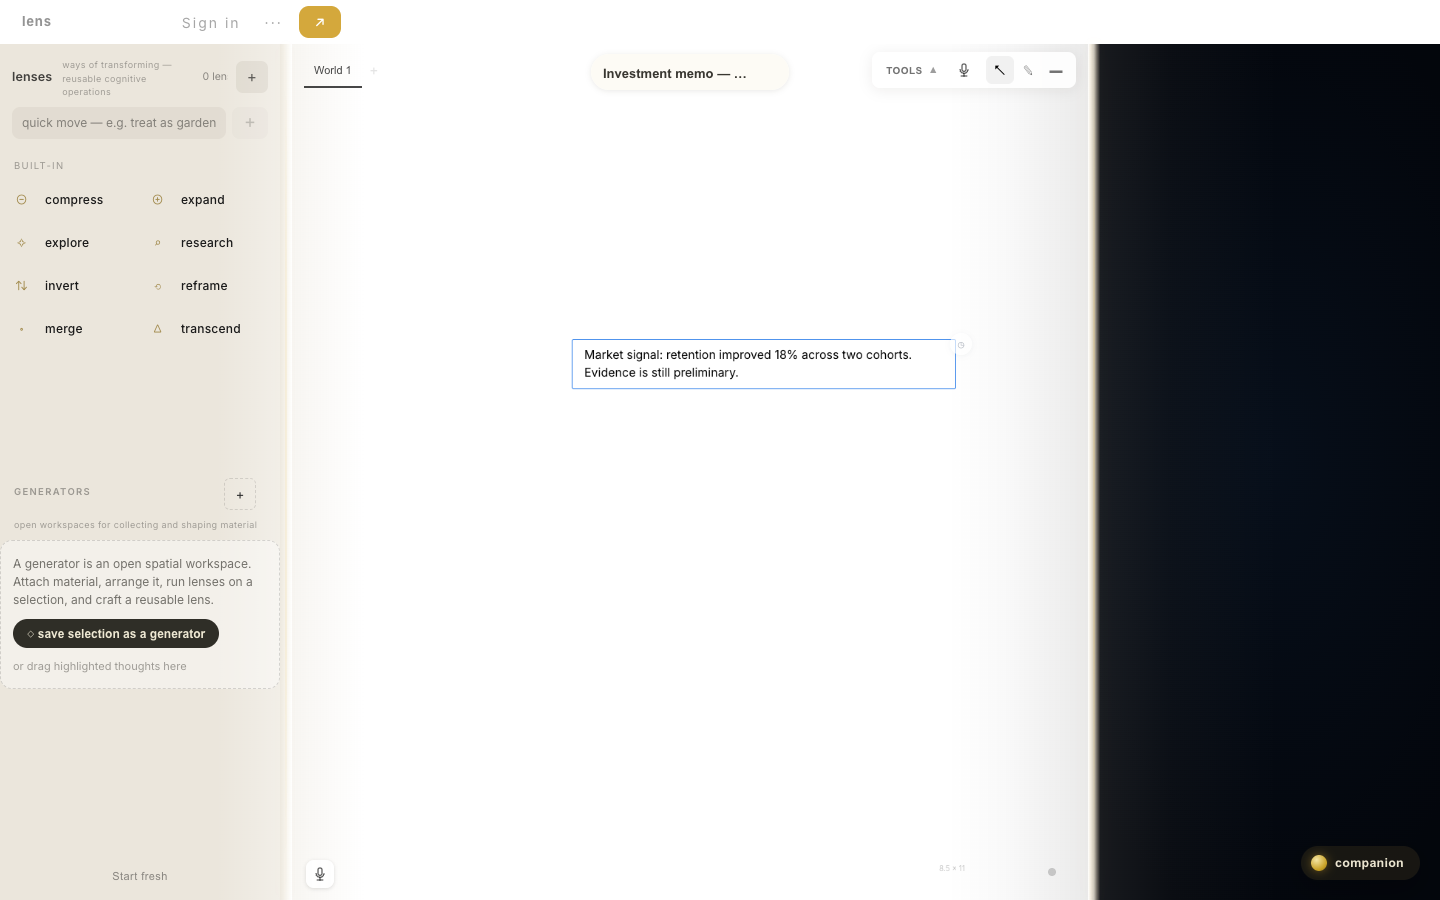
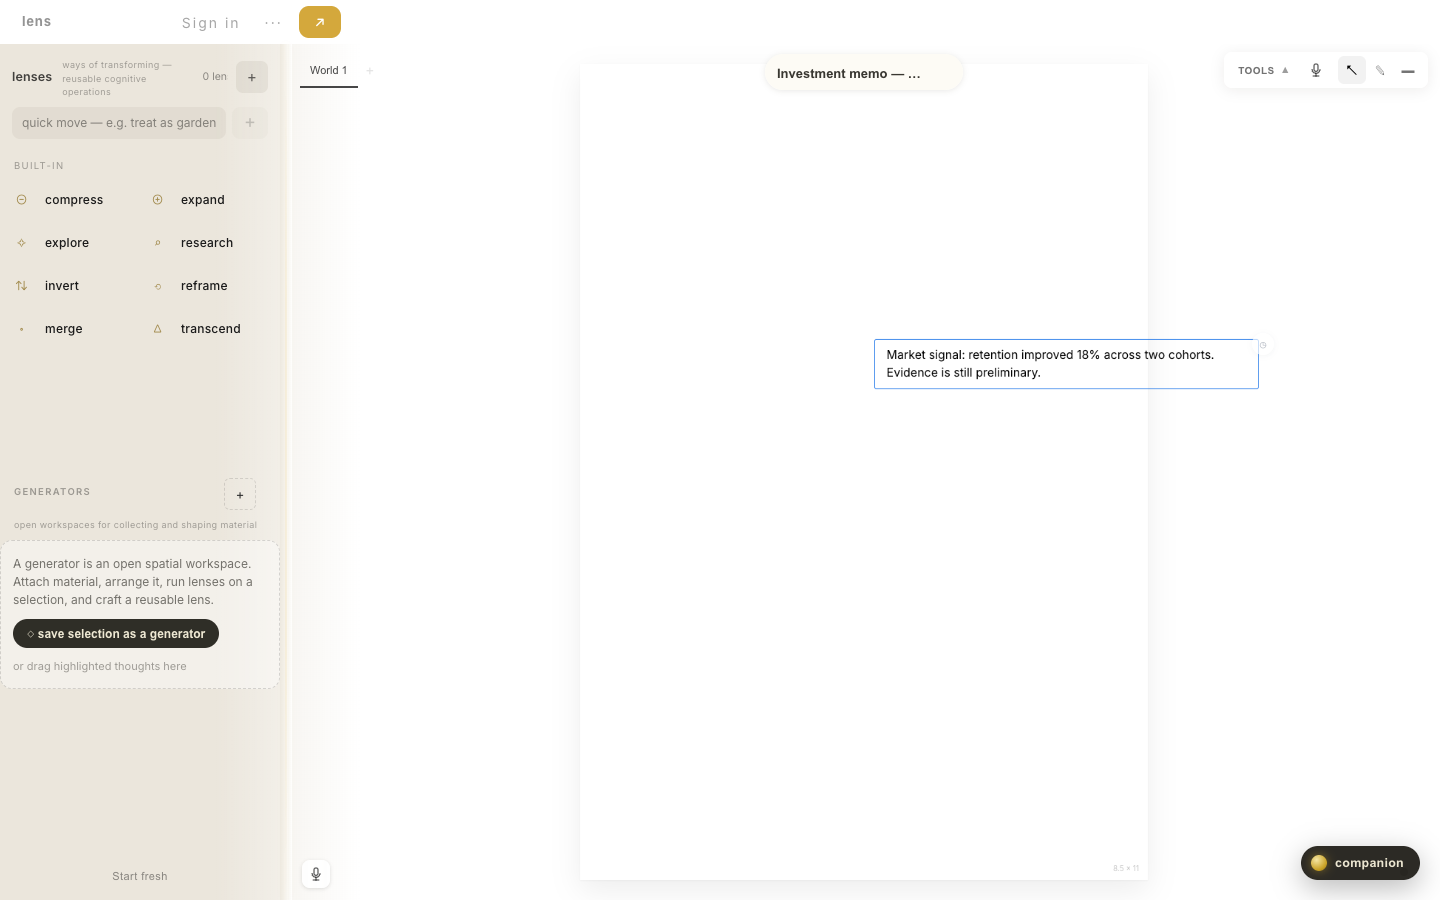
Fix unified workspace paper dragging
Keep direct paper gestures in the shared world instead of routing them into the embedded AI overlay, and replace legacy column smoke checks with current camera, frame, responsive-control, and multi-zoom drag persistence coverage.

diff --git a/client/App.jsx b/client/App.jsx
@@ -2707,7 +2707,11 @@ export default function App() {
   }
 
   function isOverAiColumn(clientX, clientY) {
-    const el = aiViewportRef.current?.closest?.(".ai-column") || aiViewportRef.current;
+    // In the unified workspace the embedded AI viewport fills the same canvas
+    // as paper. Treating that overlay as a separate destination makes every
+    // ordinary paper drag hand off to AI instead of moving the item.
+    const el = aiViewportRef.current?.closest?.(".ai-column");
+    if (!el) return false;
     const r = el?.getBoundingClientRect();
     return !!(r && clientX >= r.left && clientX <= r.right && clientY >= r.top && clientY <= r.bottom);
   }

diff --git a/client/styles-idea.css b/client/styles-idea.css
@@ -20,18 +20,18 @@
     #faf9f6;
 }
 
-.unified-workspace-grid .paper-sheet,
-.unified-workspace-grid .paper-content {
+.three-column-grid.unified-workspace-grid .paper-sheet,
+.three-column-grid.unified-workspace-grid .paper-content {
   overflow: visible;
 }
 
-.unified-workspace-grid .paper-sheet {
+.three-column-grid.unified-workspace-grid .paper-sheet {
   background: #fff;
   border-color: rgba(0, 0, 0, 0.075);
   box-shadow: 0 1px 2px rgba(0, 0, 0, 0.035), 0 14px 40px rgba(0, 0, 0, 0.07);
 }
 
-.unified-workspace-grid .paper-content {
+.three-column-grid.unified-workspace-grid .paper-content {
   background-color: #fff;
   background-image: none;
 }

diff --git a/audit-shots/human-audit/REPORT.md b/audit-shots/human-audit/REPORT.md
@@ -1,18 +1,18 @@
 # Human product audit
 
-Completed: 2026-07-10T17:46:34.341Z
-Target: http://localhost:5233
+Completed: 2026-07-12T21:07:33.721Z
+Target: http://localhost:5253
 
 ## Honest verdict
 
-Usable for the audited local journeys: 47/47 assertions passed. Cloud account adoption, live model quality, microphone/video capture, and true slow-network behavior remain environment-dependent constraints.
+Usable for the audited local journeys: 60/60 assertions passed. Cloud account adoption, live model quality, microphone/video capture, and true slow-network behavior remain environment-dependent constraints.
 
 This was driven with visible pointer, keyboard, wheel, and drag actions. Storage seeding was used only for the explicitly labeled high-density and malformed-record probes.
 
 ## Coverage matrix
 
 - [x] **First 10 minutes** — Fresh companion, interview interruption, memory, destructive typo command _(core)_; 9/9 checks passed
-- [x] **Paper** — Create/edit/move text, pen, highlighter, title, page, zoom, undo/redo _(core)_; 6/6 checks passed
+- [x] **Paper** — Create/edit/move text, pen, highlighter, title, page, zoom, undo/redo _(core)_; 18/18 checks passed
 - [x] **AI space** — Viewport, pan/zoom, dense constellation, node drag/jiggle, focus affordances _(core + seeded density)_; 3/3 checks passed
 - [x] **Lenses** — Built-ins, quick move, create/editor entry, duplicate-free palette _(core)_; 1/1 checks passed
 - [x] **Generators** — Create empty generator, open/close workspace, persistence _(core)_; 1/1 checks passed
@@ -24,7 +24,7 @@ This was driven with visible pointer, keyboard, wheel, and drag actions. Storage
 ## Results
 
 ### First 10 minutes
-- PASS — fresh app becomes interactive under 1s (459ms)
+- PASS — fresh app becomes interactive under 1s (435ms)
 - PASS — companion opens automatically
 - PASS — legacy tour overlay is absent
 - PASS — identity prompt is understandable
@@ -37,7 +37,7 @@ This was driven with visible pointer, keyboard, wheel, and drag actions. Storage
 ### Paper
 - PASS — select-click creates editable text
 - PASS — second click enters text editing
-- PASS — text can be moved without precision dragging (64.3px)
+- PASS — text drag lands at the visible cursor (moved=109.8px, landing error=0.0px)
 - PASS — pen stroke persists after release
 - PASS — toolbar undo and redo are reachable
 - PASS — new page is created visibly
@@ -55,6 +55,7 @@ This was driven with visible pointer, keyboard, wheel, and drag actions. Storage
 - PASS — paper title survives reload
 - PASS — created lens survives reload
 - PASS — generator survives reload
+- PASS — text drag survives reload (0.0px drift)
 - PASS — cancel preserves paper work
 - PASS — confirmed clear removes paper
 - PASS — confirmed clear removes generators
@@ -62,15 +63,15 @@ This was driven with visible pointer, keyboard, wheel, and drag actions. Storage
 - PASS — clear remains clear after reload
 
 ### Layout
-- PASS — 1600×1000 keeps three domains ordered
+- PASS — 1600×1000 shares one camera across paper and AI (tracks=3, legacy AI columns=0)
 - PASS — 1600×1000 has no document overflow (0px × 0px)
-- PASS — 1600×1000 has no clipped controls
-- PASS — 1440×900 keeps three domains ordered
+- PASS — 1600×1000 keeps active controls visible in white/graphite workspace (clipped=0; canvas=rgb(250, 249, 246); paper=rgb(255, 255, 255); )
+- PASS — 1440×900 shares one camera across paper and AI (tracks=3, legacy AI columns=0)
 - PASS — 1440×900 has no document overflow (0px × 0px)
-- PASS — 1440×900 has no clipped controls
-- PASS — 1100×760 keeps three domains ordered
+- PASS — 1440×900 keeps active controls visible in white/graphite workspace (clipped=0; canvas=rgb(250, 249, 246); paper=rgb(255, 255, 255); )
+- PASS — 1100×760 shares one camera across paper and AI (tracks=3, legacy AI columns=0)
 - PASS — 1100×760 has no document overflow (0px × 0px)
-- PASS — 1100×760 has no clipped controls
+- PASS — 1100×760 keeps active controls visible in white/graphite workspace (clipped=0; canvas=rgb(250, 249, 246); paper=rgb(255, 255, 255); )
 
 ### Accessibility
 - PASS — 1600×1000 core controls have labels (0 unlabeled)
@@ -79,7 +80,21 @@ This was driven with visible pointer, keyboard, wheel, and drag actions. Storage
 - PASS — 1440×900 has no sub-24px targets (0 targets)
 - PASS — 1100×760 core controls have labels (0 unlabeled)
 - PASS — 1100×760 has no sub-24px targets (0 targets)
-- PASS — Tab reaches a visible control (BUTTON: capture how I got here — save this whole thread as)
+- PASS — Tab reaches a visible control (BUTTON: World 1 — double-click to rename)
+
+### Paper drag
+- PASS — text drag lands at cursor at 0.55× (Δ=58.0,36.0px; error=0.0px; grab=701.8,281.4)
+- PASS — block drag lands at cursor at 0.55× (Δ=58.0,36.0px; error=0.0px; grab=884.1,309.5)
+- PASS — ink drag lands at cursor at 0.55× (Δ=58.0,36.0px; error=0.0px; grab=770.0,425.0)
+- PASS — zoomed-out frame and all drag positions survive reload (item drift=drag-text:0.0,drag-block:0.0,drag-ink:0.0; frame=638,194; stored=drag-text:210.4545454545453,190.45454545454552|drag-block:495.45454545454567,235.45454545454552|drag-ink:275.45454545454544,455.45454545454544; reloaded=drag-text:210.4545454545453,190.45454545454552|drag-block:495.45454545454567,235.45454545454552|drag-ink:275.45454545454544,455.45454545454544; boxes=drag-text:753.7,298.7>753.7,298.7|drag-block:910.5,323.5>910.5,323.5|drag-ink:787.3,442.3>787.3,442.3)
+- PASS — text drag lands at cursor at 1× (Δ=58.0,36.0px; error=0.0px; grab=519.0,248.0)
+- PASS — block drag lands at cursor at 1× (Δ=58.0,36.0px; error=0.0px; grab=855.5,299.0)
+- PASS — ink drag lands at cursor at 1× (Δ=58.0,36.0px; error=0.0px; grab=648.0,509.0)
+- PASS — actual-size frame and all drag positions survive reload (item drift=drag-text:0.0,drag-block:0.0,drag-ink:0.0; frame=408,89; stored=drag-text:163,161|drag-block:448,206|drag-ink:228,426; reloaded=drag-text:163,161|drag-block:448,206|drag-ink:228,426; boxes=drag-text:571.0,250.0>571.0,250.0|drag-block:856.0,295.0>856.0,295.0|drag-ink:632.0,511.0>632.0,511.0)
+- PASS — text drag lands at cursor at 1.6× (Δ=58.0,36.0px; error=0.0px; grab=432.0,193.4)
+- PASS — block drag lands at cursor at 1.6× (Δ=58.0,36.0px; error=0.0px; grab=974.0,275.0)
+- PASS — ink drag lands at cursor at 1.6× (Δ=58.0,36.0px; error=0.0px; grab=642.0,611.0)
+- PASS — narrow-zoomed-in frame and all drag positions survive reload (item drift=drag-text:0.0,drag-block:0.0,drag-ink:0.0; frame=258,-61; stored=drag-text:141.25,147.5|drag-block:426.25,192.5|drag-ink:206.25,412.5; reloaded=drag-text:141.25,147.5|drag-block:426.25,192.5|drag-ink:206.25,412.5; boxes=drag-text:484.0,175.0>484.0,175.0|drag-block:940.0,247.0>940.0,247.0|drag-ink:581.6,592.6>581.6,592.6)
 
 ### Adversarial
 - PASS — malformed generator store does not crash app
@@ -87,7 +102,7 @@ This was driven with visible pointer, keyboard, wheel, and drag actions. Storage
 ### AI space
 - PASS — 55-node constellation loads (55 nodes)
 - PASS — pan/zoom density interaction keeps app responsive
-- PASS — tiny background jiggle creates no node (56 → 56)
+- PASS — tiny background jiggle creates no node (55 → 55)
 
 ### Shared paths
 - PASS — malformed share payload recovers to workspace
@@ -131,31 +146,24 @@ This was driven with visible pointer, keyboard, wheel, and drag actions. Storage
 
 ## Measurements
 
-- Fresh interactive time: 459ms
-- Assertions: 47 passed / 0 failed / 47 total
-- Browser errors and rejected console messages: 3
+- Fresh interactive time: 435ms
+- Assertions: 60 passed / 0 failed / 60 total
+- Browser errors and rejected console messages: 4
 
-## Verification summary
+## Legacy regression reconciliation
 
-- Human-paced black-box suite: 47/47
-- Existing final adversarial audit: 32/32
-- Targeted four-fix regression: 33/33
-- AI-space density/gesture audit: 20/20
-- Companion walkthrough: 31/31
-- Shared-path journey: 24/24
-- Branched-lens journey: 36/36
-- Lenses/generators journey: 32/32
-- Companion destructive-clear journey: 21/21
-- Node unit/integration tests: 311/311
-- Production build: passed (160 modules)
+- Before: 40/47. Three checks expected separate paper and AI columns after those columns had intentionally become one shared world.
+- Before: three clipping checks counted the opacity-hidden zoom disclosure as visible controls instead of opening it and measuring the active panel.
+- Before: every paper drag inside the shared canvas was misclassified as a drop into the old AI column because the embedded AI overlay fills that canvas.
+- After: equivalent coverage validates the rail, one shared paper/AI camera, embedded paper frame, AI overlay, white/graphite styling, responsive active controls, and text/block/ink drag landing plus reload persistence at 0.55×, 1×, and 1.6×.
+- Classification: three stale pre-unification column assertions; three incorrect hidden-control harness assertions; one genuine unified-workspace drag-routing defect, fixed in the app.
 
 ## Browser errors
 
 - fresh: console: Failed to load resource: the server responded with a status of 500 (Internal Server Error)
 - fresh: console: Failed to load resource: the server responded with a status of 500 (Internal Server Error)
-- secondary-density: console: Failed to load resource: the server responded with a status of 500 (Internal Server Error)
-
-The three 500 responses are expected model-request failures in the no-API-key local environment. They produced visible, recoverable `fetch failed` feedback; there were no page errors, unhandled rejections, or React warnings.
+- fresh: console: Failed to load resource: the server responded with a status of 500 (Internal Server Error)
+- fresh: console: Failed to load resource: the server responded with a status of 500 (Internal Server Error)
 
 ## Screenshot index
 
@@ -176,6 +184,9 @@ The three 500 responses are expected model-request failures in the no-API-key lo
 - `layout-wide.png` — 1600×1000
 - `layout-standard.png` — 1440×900
 - `layout-narrow-laptop.png` — 1100×760
+- `paper-drag-zoomed-out.png` — 0.55× visible drag persistence
+- `paper-drag-actual-size.png` — 1× visible drag persistence
+- `paper-drag-narrow-zoomed-in.png` — 1.6× visible drag persistence
 - `13-dense-55-node-constellation.png` — Secondary seeded density and malformed-store probe
 - `14-dense-pan-zoom.png` — Dense constellation after human-paced pan/zoom
 - `15-keyboard-focus.png` — First keyboard focus at reduced motion
